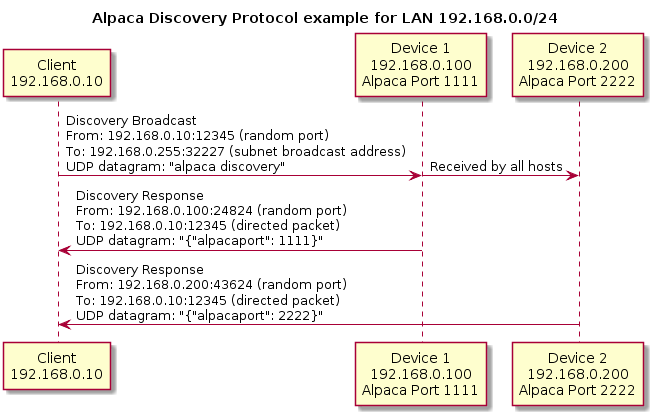
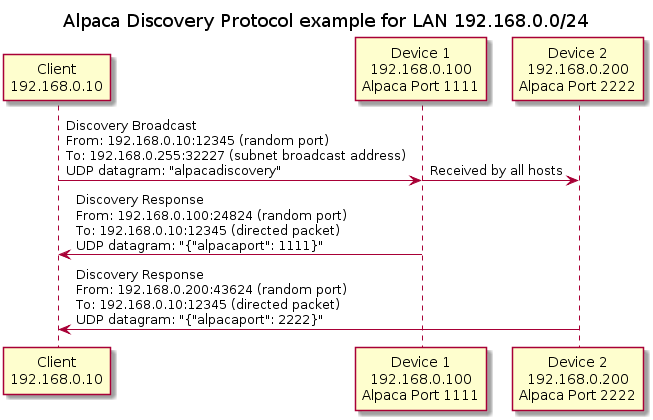
Updated documentation

diff --git a/Net/AlpacaDiscovery/Finder.cs b/Net/AlpacaDiscovery/Finder.cs
@@ -51,6 +51,8 @@ namespace AlpacaDiscovery
 
         /// <summary>
         /// Send out discovery message on each IPv4 broadcast address
+        /// This dual targets NetStandard 2.0 and NetFX 3.5 so no Async Await
+        /// Broadcasts on each adapters address as per Windows / Linux documentation 
         /// </summary>
         private void SearchIPv4()
         {
@@ -64,14 +66,13 @@ namespace AlpacaDiscovery
 
             IPv4Client.BeginReceive(ReceiveCallback, IPv4Client);
 
-            //Broadcast on each adapters address as per Windows / Linux behavior 
             NetworkInterface[] adapters = NetworkInterface.GetAllNetworkInterfaces();
             foreach (NetworkInterface adapter in adapters)
             {
                 //Do not try and use non-operational adapters
                 if (adapter.OperationalStatus != OperationalStatus.Up)
                     continue;
-                // Currently this is only for IPv4, skip any adapters that do not support it.
+
                 if (adapter.Supports(NetworkInterfaceComponent.IPv4))
                 {
                     IPInterfaceProperties adapterProperties = adapter.GetIPProperties();
@@ -95,6 +96,7 @@ namespace AlpacaDiscovery
 
         /// <summary>
         /// Send out discovery message on the IPv6 multicast group
+        /// This dual targets NetStandard 2.0 and NetFX 3.5 so no Async Await
         /// </summary>
         private void SearchIPv6()
         {
@@ -171,6 +173,7 @@ namespace AlpacaDiscovery
         }
 
         // This dual targets NetStandard 2.0 and NetFX 3.5 so no Async Await
+        // This callback is shared between IPv4 and IPv6
         private void ReceiveCallback(IAsyncResult ar)
         {
             try

diff --git a/Net/AlpacaDiscovery/Server.cs b/Net/AlpacaDiscovery/Server.cs
@@ -23,6 +23,9 @@ namespace AlpacaDiscovery
             InitIPv6();
         }
 
+        /// <summary>
+        /// Create and listen on an IPv4 broadcast port
+        /// </summary>
         private void InitIPv4()
         {
             UdpClient UDPClient = new UdpClient();
@@ -39,6 +42,9 @@ namespace AlpacaDiscovery
             UDPClient.BeginReceive(ReceiveCallback, UDPClient);
         }
 
+        /// <summary>
+        /// Bind a UDP client to each network adapter and set the index and address for multicast
+        /// </summary>
         private void InitIPv6()
         {
             NetworkInterface[] adapters = NetworkInterface.GetAllNetworkInterfaces();

diff --git a/README.md b/README.md
@@ -8,7 +8,7 @@ In order to implement this protocol all a Client needs is the ability to send a 
 
  Once the IP Address and Alpaca port of the Device is known the Client can use the management API to query the Device and discover its supported endpoints and functions.
 
- For testing this uses port 32227 for the broadcasts.
+ For testing this uses port 32227 for the broadcasts and multicasts.
 
 # Examples
 
@@ -44,12 +44,16 @@ This Client example iterates over all network adapters on the system and sends t
 
 These can be built with Visual Studio 2017 (or 2019) Community or via the dotnet command line tools. To publish a dotnet core example for a different platform use the dotnet publish command (https://docs.microsoft.com/en-us/dotnet/core/tools/dotnet-publish?tabs=netcore21). For example running the following command in the core Client or Server folder will create a Self Contained Deployment in a folder named linux for Linux x64: `dotnet publish --self-contained --runtime linux-x64 -o linux`. See https://docs.microsoft.com/en-us/dotnet/core/rid-catalog for target platforms.
 
+This supports both IPv4 broadcast and IPv6 multicast.
+
 ## Python
-This is an example Python 3 set of programs. The client requires the netifaces package. This can be installed with `pip (or pip3) install netifaces`. This was tested on  Windows, Linux (Ubuntu, Manjaro and Raspbian) and OSX. They can be run with the normal Python command.
+This is an example Python 3 set of programs. The client requires the netifaces any pyuv packages. This can be installed with `pip (or pip3) install netifaces`. This was tested on  Windows, Linux (Ubuntu, Manjaro and Raspbian) and OSX. They can be run with the normal Python command.
 
 There is one line in the Device example that must be removed on Windows and included for Linux or OSX. This handles a difference in the socket API across the different platforms. See the file for details.
 
 This Client iterates over all network adapters on the system and sends the request to each broadcast address that it finds. This works much better than sending a single generic broadcast. 
+
+This supports both IPv4 broadcast and IPv6 multicast.
 
 # Specification
 
@@ -66,6 +70,8 @@ There are likely other issues not yet identified.
 
 A Client broadcasts a UDP packet containing the discovery message on the discovery port. Devices listening for broadcasts on this port respond directly to the Client with the response message. Clients pull the Alpaca API port from the message and then can query the management API for details about the Device.
 
+For IPv6 this is achieved using multicast.
+
 Clients may receive responses from multiple devices. They should be able to gracefully convey this information to the end user.
 
 
@@ -79,7 +85,7 @@ PORT (Alpaca Discovery Port): this is the port that the Client Broadcasts the di
 
 ALPACAPORT: this is the port that the Alpaca REST API is available on. This must be able to be changed by the end user in case the Device is behind a proxy of some sort. This means that the Device may respond with a different port number depending on the IP Address and Route of the discovery request. 
 
-DISCOVERY: this is the message that is sent by the client via broadcast on the PORT. Currently this message is simply *alpaca discovery*. For example in C the message could be defined as `char* DISCOVERY = "alpaca discovery";`
+DISCOVERY: this is the message that is sent by the client via broadcast on the PORT. Currently this message is simply *alpaca discovery*. For example in C the message could be defined as `char* DISCOVERY = "alpacadiscovery";`
 
 RESPONSE: this is the message that the Device sends back via unicast to the client. This message include the port that the Alpaca API is available on the Device. This is a valid json message of the form *{"alpacaport": port}* where port is the port number of the Alpaca API. For example in c this could be set to a char* with `sprintf(response, "{\"alpacaport\": %d}", ALPACAPORT);` Because this is a json message we can add additional named terms as needed. Clients must be able to ignore any additional json fields that they do not know how to handle.
 
